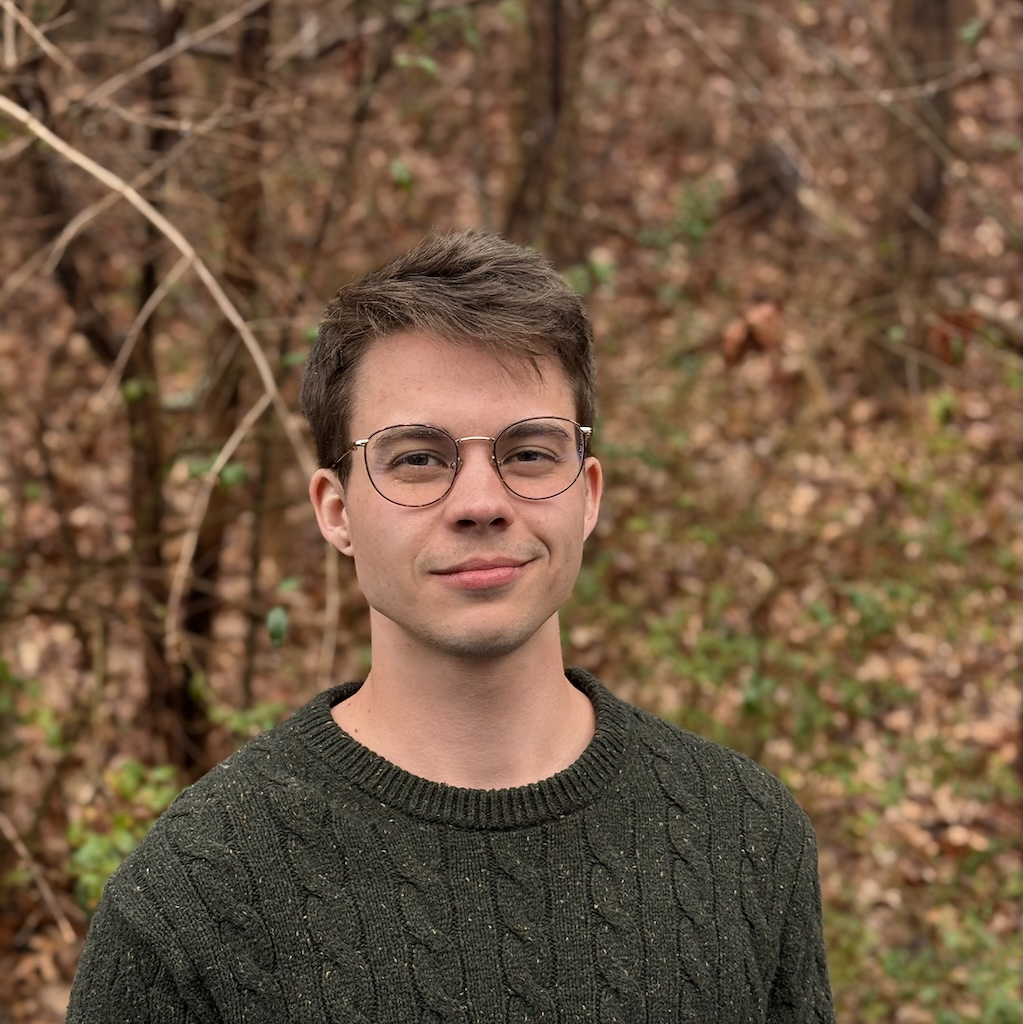
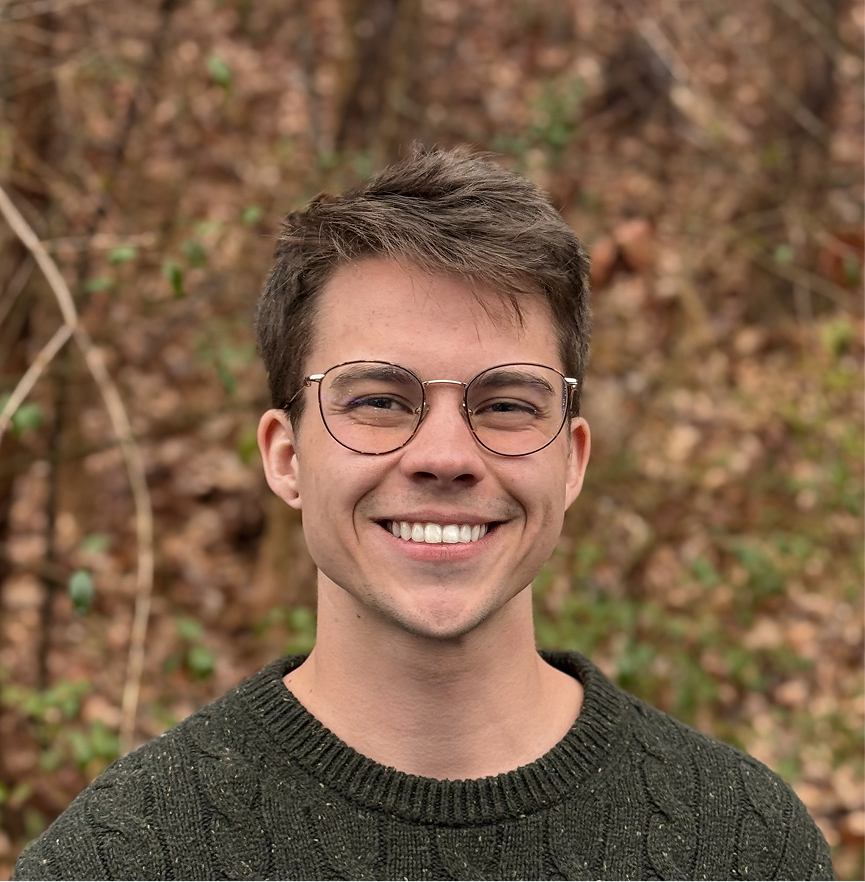
profile change

diff --git a/src/components/PortfolioPage.tsx b/src/components/PortfolioPage.tsx
@@ -1,7 +1,7 @@
 import { useEffect, useRef } from "react";
 import { ExternalLink, Code, Database, Brain, Mail } from "lucide-react";
 import styles from "./PortfolioPage.module.css";
-import profile from "../assets/profile2.jpg";
+import profile from "../assets/profile.jpg";
 import ProjectDetails from "./ProjectDetails";
 
 const PortfolioPage = () => {
